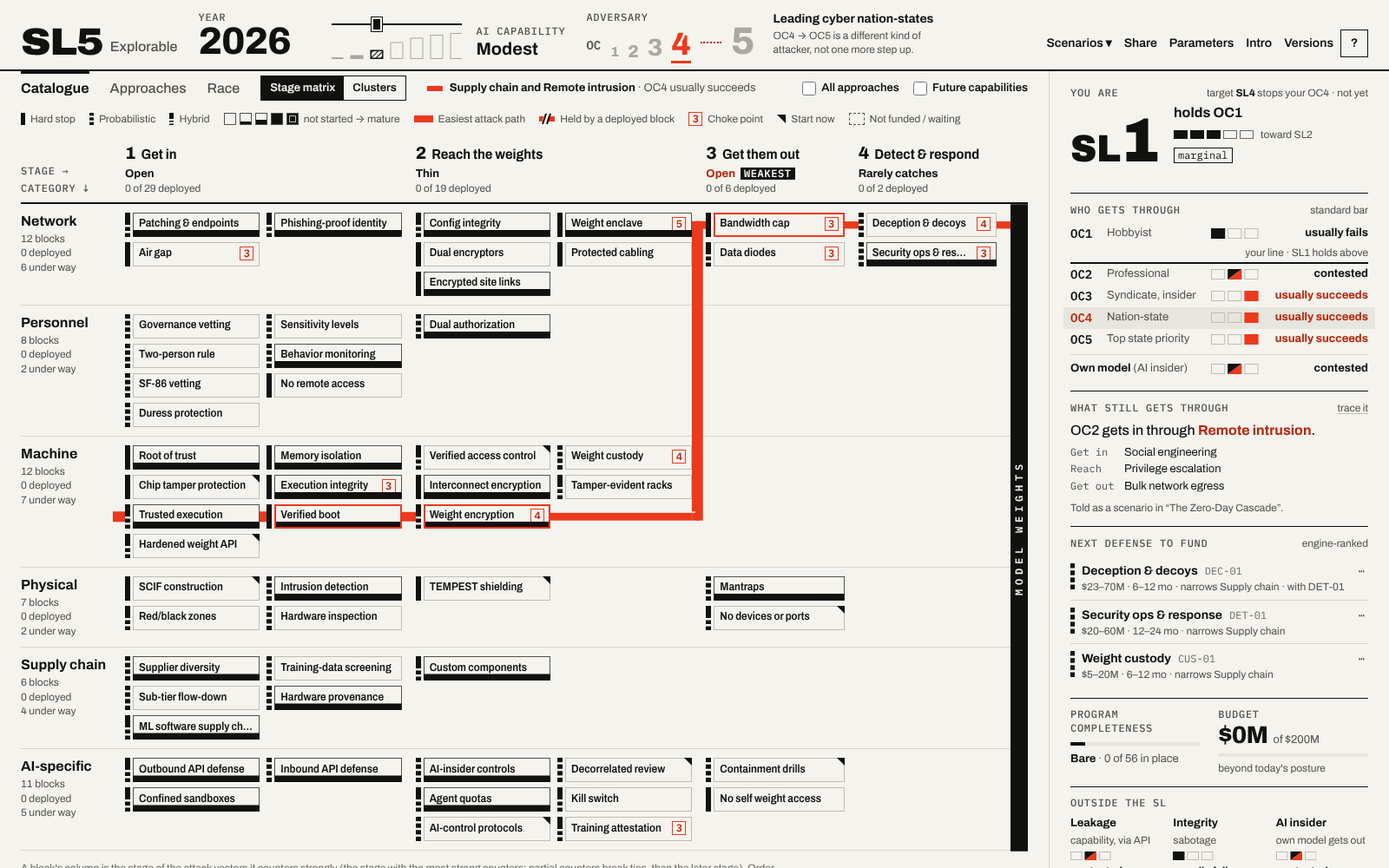
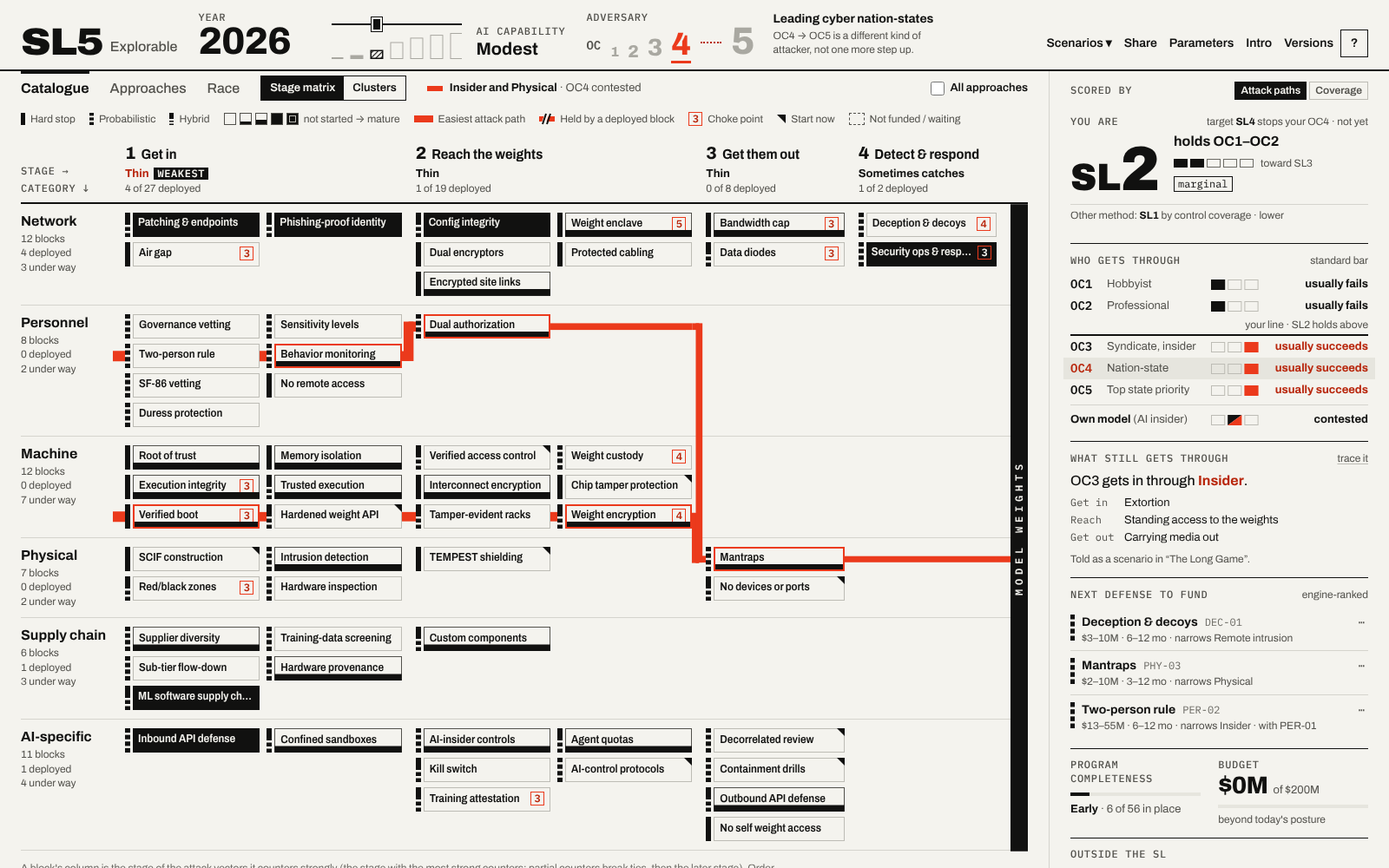
Refresh screenshots at the SL2 baseline; finalise decision log; fix driver for v2 settings
- README screenshot + landing v2 thumbnail re-captured (SL2, holds OC1–OC2); alt text updated
- research/v2/decisions.md: D23–D25 record what landed (22af6de, bbc2c18) with before→after table and open questions
- run skill: 31 files / 419 tests, 56 blocks, scoring-mode setting; driver checks the scoring switch instead of the retired future toggle and expects Proactive to reach SL5

Claude-Session: https://claude.ai/code/session_0122uNYq5RiiK2CqAfXCxa3h

diff --git a/site/index.html b/site/index.html
@@ -318,7 +318,7 @@
             <p class="mono path">/sl5/v2/</p>
           </div>
           <div class="shot">
-            <img src="thumbs/v2.webp" width="1200" height="750" alt="The v2 catalogue on paper-white: defenses laid out as a matrix of attack stage (get in, reach the weights, get them out, detect and respond) by category, with the easiest attack path drawn through them in red. On the right, the verdict rail reads SL1, holds OC1, and marks each attacker tier in words: usually fails, contested or usually succeeds.">
+            <img src="thumbs/v2.webp" width="1200" height="750" alt="The v2 catalogue on paper-white: defenses laid out as a matrix of attack stage (get in, reach the weights, get them out, detect and respond) by category, with the easiest attack path drawn through them in red. On the right, the verdict rail reads SL2, holds OC1–OC2, and marks each attacker tier in words: usually fails, contested or usually succeeds.">
           </div>
           <p class="what">Scored on RAND&rsquo;s attack vectors, with a threat-relative security level: SL&nbsp;n means an OC&nbsp;n attacker usually fails. A catalogue in stage-matrix and cluster views, a verdict in words instead of percentages, approach and race views, and a new introduction for defenders.</p>
           <div class="actions">

diff --git a/research/v2/decisions.md b/research/v2/decisions.md
@@ -4,7 +4,7 @@ A chronological record of the decisions behind SL5 Explorable v2, made between 2
 
 - **User** means the repository owner. **Agent** means the orchestrating Claude session or one of the subagents it ran (reviewers, designers, implementers).
 - Quotes are the user's own words, verbatim, typos included.
-- **Status:** *Active* (holds in the shipped code), *Superseded* (replaced by a later decision), *Reversed* (undone), or *In progress* (being implemented as this folder was written).
+- **Status:** *Active* (holds in the shipped code), *Superseded* (replaced by a later decision), *Reversed* (undone), or *Done* (a one-off that is finished).
 - Where this log and the code disagree, the code and [`../scoring-model.md`](../scoring-model.md) win.
 
 The review pages linked below are claude.ai artifacts. They are **private to the repository owner**; everyone else should read the copies in this folder.
@@ -35,9 +35,9 @@ The review pages linked below are claude.ai artifacts. They are **private to the
 | [D20](#d20-ship-v1-and-v2-side-by-side) | 28 Nov | v1 frozen, v2 beside it, version picker | User | Active |
 | [D21](#d21-prs-go-up-ready-for-review) | 28 Nov | PRs ready for review, not draft | User | Active |
 | [D22](#d22-implementation-phases-and-code-review) | 27–28 Nov | Phased build, then an independent code review | Agent | Done |
-| [D23](#d23-sl5-must-be-reachable-with-the-catalogue) | 28 Nov | SL5 reachable with the full catalogue; research-required flags | User | In progress |
-| [D24](#d24-recalibrate-the-sobering-numbers) | 28 Nov | Recalibrate against evidence about today's labs | User asked | In progress |
-| [D25](#d25-a-setting-for-the-scoring-method) | 28 Nov | Setting: attack-path analysis or control coverage | User | In progress |
+| [D23](#d23-sl5-must-be-reachable-with-the-catalogue) | 28 Nov | SL5 reachable with the full catalogue; research-required flags | User | Active (`bbc2c18`); open questions |
+| [D24](#d24-recalibrate-the-sobering-numbers) | 28 Nov | Recalibrate against evidence about today's labs | User asked | Active (`bbc2c18`); open questions |
+| [D25](#d25-a-setting-for-the-scoring-method) | 28 Nov | Setting: attack-path analysis or control coverage | User | Active (`22af6de`) |
 | [D26](#d26-document-the-research-in-the-repo) | 28 Nov | Put the research in the repo | User | This folder |
 
 ---
@@ -308,6 +308,9 @@ Full record with images: [`visual-directions.md`](visual-directions.md).
 | 3 | `8e0037f` | The v2 interface: Swiss catalogue, verdict in words, defender-side intro |
 | Docs | `9eba10c` | README versions, model doc, research banners |
 | Review fixes | `f68d5d8` | Fixes for the independent code review's two medium findings |
+| Scoring mode | `22af6de` | The scoring-method setting (D25) |
+| Research docs | `504535e` | This folder (D26) |
+| Recalibration | `bbc2c18` | SL5 reachable with the catalogue, research-required flags, evidence-based baseline, defender AI (D23, D24) |
 
 The independent code review of `ffde5b6..8e0037f` found two medium bugs, both fixed with tests:
 1. a story played over a shared link could overwrite the reader's saved posture;
@@ -328,31 +331,85 @@ It found nothing serious in the engine: about 10,800 random property trials with
   - Retire the invented FUT-01…05 blocks and the future-capabilities toggle. Flag the existing research-heavy controls with `research_required` instead.
 - **Reverses:** D15.4.
 - **Why D15.4 was wrong:** it treated RAND's 2024 "Achieving SL5 is currently not possible" as a property of the catalogue. The constraint is that some controls cannot yet be built.
-- **Status:** in progress in a parallel agent. Check `app/public/data/` and `scoring-model.md` for what landed.
+- **What was done** (commit `bbc2c18`, with D24; details in [`scoring-model.md`](../scoring-model.md) Parts 3, 7 and 12):
+  - **FUT blocks retired.** `blocks-future.json` and the toggle are gone from the data, engine, store, view bar, Parameters and Race view. Old saves and share links drop the FUT ids and the toggle. The catalogue is 56 blocks.
+  - **Seven controls flagged `research_required`**, each with a one-line `research_note`: HW-04 chip-level tamper protection, HW-06 execution integrity verification, SRV-01 the hardened weight-access and serving interface, ACA-01 access-control verification, AI-02 decorrelated multi-model review, AI-10 AI-control protocols and SC-03 adversarial content screening. Where the data called the work research-grade, lead times were lengthened (for example SRV-01 18–36 → 36–60 months, AI-10 12–24 → 36–60), so a programme that starts them in 2026 lands them in 2029–2032. The drawer and the tile's label show the flag. Otherwise they are ordinary blocks.
+  - **Erosion is read relative to what a control was built for.** `erosion tier = max(1, tier − DESIGN_TIER_RELIEF × (first_required − 1))`, with `DESIGN_TIER_RELIEF` = 0.75. Before, every SL5-grade probabilistic control kept 40% of its effect against OC5 at every stage, so even the mature catalogue could not hold OC5. Without the relief it is SL4.80 in 2026.
+  - **The served approach got an exit stage.** Model extraction (V-ML-4) used to skip *reach* and *get out*, which left a floor no counter could pass. It now exits through a new structural vector, V-X-5 (weight-scale volume out through the API), metered by AI-07 (strong) and SRV-01 (partial).
+  - **31 vector-map links changed**, mostly strong counters on the controls the SL5 benchmark relies on, the research-required ones above all. They are listed with reasons in `scoring-model.md` Part 12.
+- **Result** (default world, model served):
+  - The mature catalogue is **SL5 in 2026, 2028 and 2030, but marginal**: OC5 succeeds 0.17–0.19 of the time against a bar of 0.20. In a favourable world it is clear (0.07–0.08).
+  - **Without the research-required controls it is not SL5:** SL4.84 in 2026, SL3.94 in 2030. Without SRV-01 alone there is no SL5.
+  - The Proactive story reaches SL5 in 2030 only because it starts the research controls in 2024.
+  - So research and lead time keep SL5 out of reach today, not the arithmetic.
+- **Status:** active. The open questions it raised are listed [under D24](#open-questions-from-the-recalibration).
 
 ### D24. Recalibrate the "sobering" numbers
 
 - **User:** "The sobering numbers don't sound to good. Are you sure about them?"
-- **Evidence:** in the v2 calibration as shipped (default world, model served):
+- **Evidence:** in the v2 calibration as first shipped (default world, model served):
   - the 2026 baseline was SL1 and marginal, falling below SL1 by 2028;
   - the Proactive story reached only SL3 in 2030;
   - the full catalogue never passed SL3 with the model served;
   - even with the FUT blocks, in a favourable world, it touched SL5 only in 2026.
-- **Diagnosis (agent):** the numbers were too pessimistic, for three reasons:
-  1. the baseline undercounts what labs already run: no block starts as "deployed", and `partially_deployed` maps to *implementing*;
-  2. AI helps only the attacker; there is no defender-side AI;
-  3. the calibration was set up so SL5 could not be reached.
+- **Diagnosis (agent):** the numbers were too pessimistic. Three causes were suspected, and probes on the binding paths tested them:
+  1. **The baseline undercounted what labs already run. Confirmed.** No block started as `deployed`, and `partially_deployed` maps to *implementing*, so identity, patching and the SOC counted at 0.4.
+  2. **AI helped only the attacker. Confirmed, but a small effect.** The baseline's collapse came mostly from under-credit meeting AI-lifted feasibility.
+  3. **The calibration blocked SL5. Confirmed** (the single-stage served approach, partial-only counters on every binding stage, erosion read without regard to what a control was built for; see D23).
+
+  **Refuted:** the residual floor (0.03 at OC5, never binding) and the structural placeholders as such. They bound only because their counters were weak, so the fix went into the counters, not into p.
 - **Chosen:** recalibrate against evidence-based targets (where labs stand against RAND's levels today), add a modest, capped defender-AI term, and fix data and structure rather than global constants.
-- **Status:** in progress. The targets and evidence will be in `scoring-model.md`.
+- **Targets**, from public evidence: RAND's 2024 report and its Aug 2026 SL3 report, Anthropic's ASL-3, GovAI on RSP v3, Google DeepMind's Frontier Safety Framework, IFP, the SL5 Task Force and Ladish. The sources and confidence levels are in [`scoring-model.md`](../scoring-model.md#calibration-targets-and-evidence).
+  - A typical frontier lab in 2026 is **SL2, contesting SL3**, mostly through an insider (moderate confidence).
+  - Held fixed, it **declines by about a level by 2030, not below SL1** (low–moderate).
+  - The **full catalogue, matured, is SL5** in 2026 and 2030, marginal allowed, with no invented blocks (moderate on direction; the margin is authored).
+  - **Without the research-required controls, not SL5** (moderate).
+  - Stories: Do Nothing declines; Budget-Constrained between; Reactive ≈ SL3; Proactive SL4, and SL5 by 2030 only if its research started in 2024.
+- **What was done** (commit `bbc2c18`):
+  1. **Evidence-based baselines.** Six controls start `deployed`, each citing its evidence: IAM-01, END-01, CFG-01, DET-01, SW-01 and AI-08. NET-04 is partial from 2025 (ASL-3's software egress limits).
+  2. **Defender AI.** Eleven detection, monitoring, review and patching blocks carry `defender_ai`. On the vectors they counter they win back half of the attacker's AI uplift (`DEFENDER_AI_SHARE` 0.5, read at the erosion tier only), and half of AI's erosion of detection. It never exceeds the uplift it offsets, so a later year is never safer. The effect is modest: the baseline held to 2030 is SL1.55 without it and 1.61 with it.
+  3. **Design-tier relief, the served exit stage, the 31 map changes and the research-required flags** (D23).
+  4. **Stories rescheduled.** Proactive starts the research controls in 2024 ($4.0B). Reactive buys AI-07 and AI-08 after the Feb 2026 distillation disclosure ($1.95B). Captions, intro copy and the intro's budget game were updated (the game now starts in 2028).
+  5. **The targets are tests** (`tests/engine/calibration.test.ts`, `scripts.test.ts`), and `npm run calibrate` regenerates the tables in `scoring-model.md` Part 11.
+- **Before → after** (SL value, model served, default world; m = marginal; "before" for the full catalogue is with the future toggle off):
+
+  | Posture | 2026 | 2028 | 2030 |
+  |---|---|---|---|
+  | 2026 baseline | 1.51 m → **2.31 m** | 0.84 → **1.72** | 0.75 → **1.60** |
+  | Do Nothing | 1.51 m → **2.33 m** | 0.85 → **1.73** | 0.76 → **1.62** |
+  | Budget-Constrained | 1.71 → **2.41 m** | 1.65 → **1.90** | 1.56 → **1.83** |
+  | Reactive CISO | 1.60 → **2.32 m** | 1.50 → **1.81** | 1.92 → **2.97** |
+  | Proactive Program | 2.51 m → **2.83** | 2.86 → **4.73 m** | 3.60 m → **5.00 m** |
+  | Full catalogue | 3.77 m → **5.00 m** | 3.65 m → **5.00 m** | 2.96 → **5.00 m** |
+  | Full catalogue, research controls not built | — | — | **3.94** |
+
+- **Status:** active, with the open questions below.
+
+#### Open questions from the recalibration
+
+These came out of D23 and D24, and are waiting for the user:
+
+1. **SL5 is only marginal in the default world.** The mature catalogue holds OC5 at 0.17–0.19 against the 0.20 bar. A strict bar loses it, and a government partnership makes it clear. `DESIGN_TIER_RELIEF` = 0.75 is the reading that holds OC5 through 2030 (at 0.5 it is lost from 2028). At 1.0 an SL5-grade control would not erode against OC5 at all, and OC5 would be 0.15–0.16, which gives more margin. Keep 0.75, or move to 1.0?
+2. **The 31 vector-map changes are pending the user's review.** The original map went to the user before any engine code (D14, D15). These changes were made by the agent during the recalibration. Each carries a `why` and a `note` in the data, and they are listed in `scoring-model.md` Part 12.
+3. **The intro's budget game moved from 2026 to 2028.** Today's baseline is now SL2, and no $150M year buys SL3 from there. So the game starts in 2028, after the lab has slipped to SL1, and asks whether you can get back to SL2. The alternative is to keep 2026 with a different goal or budget.
+4. **Reactive ends at 2.97**, just short of the "≈ SL3" target: OC3 succeeds 0.21 of the time in 2030 against the 0.20 bar. The README calls it "about SL3". Accept that, or tune the story over the line?
+5. **With the model not served and full cooperation, SL5 holds even without the research controls** (OC5 0.11–0.12 in the favourable world). In the default world with the model not served, it holds in 2026 (OC5 0.19) and is lost from 2028. This is consistent with RAND: its call for R&D is about serving production models at SL5, and its other SL5 condition is help from the national security community. But it means "SL5 needs research" holds only for a served model, or without government help. Accept, or make the research controls load-bearing in every world?
 
 ### D25. A setting for the scoring method
 
 - **User:** "Can we add the setting to select the scoring logic between the old % of controls Vs the attack path analysis?"
 - **Chosen:**
-  - A `scoringMode` setting: *attack-path analysis* (default) or *control coverage*, the v1 formula.
+  - A `scoringMode` setting: *attack-path analysis* (`paths`, the default) or *control coverage* (`coverage`, the v1 formula).
   - It is persisted and travels in share links.
   - The rail shows a one-line "Other method: SLx" note, so users see where the two disagree. That disagreement is the teaching point.
-- **Status:** in progress.
+- **What was done** (commit `22af6de`):
+  - `scoringMode` is saved with the posture and carried in share links. Old links, which don't have it, load as `paths`.
+  - It is set in two places: "How to score your security level" at the top of Parameters, and a "Scored by: Attack paths | Coverage" switch at the head of the rail.
+  - **Coverage mode** reads the engine's own programme completeness (0.3 × the weakest category + 0.7 × the mean, v1's method) as a level plus a progress bar. Under it, each category shows its coverage share and "x of y in place", with the weakest flagged. The tier ladder is hidden, and the next defense is ranked by coverage gained per $M. The share is printed as "NN% coverage". This is the one percentage in the UI: it is a share of controls built, not a probability, so the no-percentages rule exempts it (`data-coverage-share`).
+  - **Both modes** show "Other method: SLx by … · higher / lower", and the hover explains why the two differ. At today's 2026 baseline, attack paths give SL2 (marginal) and control coverage gives SL1.
+  - **Stories pin `paths`.** Their captions state threat-relative outcomes, so the switch is locked while a story plays and the reader's choice comes back when it stops.
+  - Tests: `tests/store/scoring-mode.test.ts`, `tests/ui/scoring-mode.test.tsx`.
+- **Status:** active.
 
 ### D26. Document the research in the repo
 

diff --git a/app/.claude/skills/run-sl5-app/SKILL.md b/app/.claude/skills/run-sl5-app/SKILL.md
@@ -67,10 +67,10 @@ Flows — pass one, or `all`:
 
 | flow | what it asserts |
 |---|---|
-| `smoke` | app loads past the first-run modal; every block of today's catalogue renders once (counted from `public/data`: 56 today), no R&D block while the toggle is off; the rail states a level and band words; a path is drawn; **no `%` anywhere on screen** (text, titles, aria labels; quoted research prose excepted); **nothing under 12px**; no console errors |
+| `smoke` | app loads past the first-run modal; every block of the catalogue renders once (counted from `public/data`: 56 today); the rail states a level and band words; a path is drawn; **no `%` anywhere on screen** (text, titles, aria labels; quoted research prose excepted); **nothing under 12px**; no console errors |
 | `views` | Stage matrix, Clusters, Approaches and Race each mount and lay out (tile/hex/lane/bar counts); nothing under 12px on the race |
-| `interact` | click advances a block, right-click steps it back; Shift-click opens the block drawer, Escape closes it; the Parameters drawer has strictness, propensity, future toggle, serving, government; the future toggle shows the five R&D blocks (61 tiles) |
-| `story` | Scenarios ▾ → Proactive Program plays with the transport and a caption in the rail; the end shows a takeaway; Proactive reaches SL3 by 2030; stopping restores the reader's year |
+| `interact` | click advances a block, right-click steps it back; Shift-click opens the block drawer, Escape closes it; the Parameters drawer has the scoring method, strictness, propensity, serving, government; switching the scoring method to control coverage and back flips the rail |
+| `story` | Scenarios ▾ → Proactive Program plays with the transport and a caption in the rail; the end shows a takeaway; Proactive reaches SL5 by 2030; stopping restores the reader's year |
 | `dark` | `prefers-color-scheme: dark` paints the dark paper |
 | `gate` | below 768px the gate replaces the app (no catalogue mounts), and tracks a live resize both ways |
 | `intro` | `/sl5/intro/` renders, `#the-oc-ladder` deep-links to its slide (title and position read from `src/intro/slides/index.ts`), readable at 390px |
@@ -121,7 +121,7 @@ const sliders = { ai_timeline: 0.5, gov_cooperation: 0.2, vendor_cooperation: 0.
   org_transformation: 0.3, risk_tolerance: 0.5, sl_bar: 0.2, ai_propensity: 0.5 };
 const s = scorePosture({ blocks, model, blockStates: baselineStates(blocks), year: 2026, sliders,
   adversaryOc: 4, modelServedExternally: true });
-console.log("SL", s.sl.level, s.tiers.map((t) => t.band)); // SL 1, [usually fails, contested, ...]
+console.log("SL", s.sl.level, s.tiers.map((t) => t.band)); // SL 2, [usually fails, usually fails, usually succeeds, ...]
 EOF
 node scripts/run-ts.mjs probe.ts && rm probe.ts
 ```
@@ -141,11 +141,16 @@ Desktop-only by design; the app gates below 768px. Ctrl-C to stop. The first-run
 remembers itself under `sl5v2_intro_seen`; saved state lives under `sl5v2-state` and
 `sl5v2-scenarios` (v1, frozen at `/sl5/v1/`, keeps the unprefixed keys).
 
+The headline level has a **scoring-mode** setting (`scoringMode`: `paths`, the default
+attack-path analysis, or `coverage`, v1's control coverage), set at the top of Parameters
+or with the rail's "Scored by" switch; it is saved, travels in share links, and stories
+pin `paths` while they play.
+
 ## Checks
 
 ```bash
 npm run lint      # eslint — clean
-npm test          # vitest — 29 files, 384 tests
+npm test          # vitest — 31 files, 419 tests
 npm run build     # tsc -b && vite build → dist/ (two pages)
 ```
 

diff --git a/README.md b/README.md
@@ -4,7 +4,7 @@
 
 **[Live →](https://nitzpo.github.io/sl5/)** (choose a version) · **[v2, current →](https://nitzpo.github.io/sl5/v2/)** · **[v1, original →](https://nitzpo.github.io/sl5/v1/)** · **[Start with the v2 introduction →](https://nitzpo.github.io/sl5/v2/intro/)**
 
-![SL5 Explorable v2: the catalogue of defenses as a stage-by-category matrix with the easiest attack path drawn through it in red, and the verdict rail on the right reading SL1, holds OC1](assets/screenshot.png)
+![SL5 Explorable v2: the catalogue of defenses as a stage-by-category matrix with the easiest attack path drawn through it in red, and the verdict rail on the right reading SL2, holds OC1–OC2](assets/screenshot.png)
 
 > ⚠ **Disclaimer.** This is an educational, illustrative model — not authoritative security guidance. The blocks, attack-vector mappings, scenarios, costs, and probabilities are a *modeling interpretation* synthesized from public sources (see [Data & sources](#data--sources)), not official figures. Use it to build intuition, not to make procurement or accreditation decisions.
 
@@ -36,7 +36,8 @@ The tool is built around **two simultaneous races**:
 - **The catalogue** is the main screen, in two views. The **stage matrix** lays the blocks out by attack stage (get in, reach the weights, get them out, detect and respond) and category; **clusters** groups them by category around the model weights. The easiest attack path is drawn through both, with break marks where a deployed block holds and badges on choke points. Click a block to advance it (not started → investing → implementing → deployed → mature), right-click to step it back, Shift-click for its detail drawer.
 - **The verdict rail** gives the security level as a level plus a progress bar toward the next, flagged *marginal* when it only just holds; a ladder of attacker tiers OC1–OC5 and the lab's own model, each in words (*usually fails*, *contested*, *usually succeeds*); what still gets through; the engine-ranked next defense to fund; programme completeness; the budget; and meters outside the SL. There are no percentages in the UI; the exact estimative word is on hover.
 - **Approaches** shows one lane per broad way in (remote intrusion, insider, physical, supply chain, the served model, the lab's own model) along the attacker's easiest path, with your defenses at each stage. **Race** sets long-lead defenses against the moment AI lifts the attacker to the next tier, and plots your SL over the years beside the four scripted stories.
-- **Parameters** holds the advanced settings: how strict "stops" is (strict, standard, lenient), the adversary, model serving, AI propensity, and the world sliders.
+- **Scoring mode**: the rail's *Scored by* switch (also at the top of Parameters) chooses how the headline level is scored, by attack-path analysis (the default) or by v1's control coverage, and the rail always notes what the other method gives.
+- **Parameters** holds the advanced settings: the scoring mode, how strict "stops" is (strict, standard, lenient), the adversary, model serving, AI propensity, and the world sliders.
 - **Scenarios** plays one-minute stories (Proactive Program, Reactive CISO, Budget-Constrained, Do Nothing, or your own posture run forward in time) with captions in the rail, and saves and reloads postures you name. **Share** copies a link to your posture.
 
 ### The introduction

diff --git a/research/v2/README.md b/research/v2/README.md
@@ -16,7 +16,7 @@ v1, frozen at commit `ec5d9bd` and live at `/sl5/v1/`, scored seven hand-written
 
 > **For anything the app computes, the code wins:** [`app/src/engine/`](../../app/src/engine/), the data in [`app/public/data/`](../../app/public/data/), and the model reference [`research/scoring-model.md`](../scoring-model.md).
 
-This folder explains *why*. It is a historical record: numbers in it come from probes and drafts at the time, and several were later changed. In particular the recalibration of 28 Nov, which made SL5 reachable with the full catalogue and retired the "future capabilities" blocks, was still in progress when this folder was written. If a number here disagrees with `scoring-model.md`, trust `scoring-model.md`.
+This folder explains *why*. It is a historical record: numbers in it come from probes and drafts at the time, and several were later changed. In particular, the recalibration of 28 Nov (commit `bbc2c18`) landed after most of this folder was written. It made SL5 reachable with the full catalogue, retired the invented "future capabilities" (FUT) blocks in favour of `research_required` flags on seven existing controls, and moved today's baseline from SL1 to SL2. [`decisions.md`](decisions.md) D23–D25 record what was done and the questions it left open. Mentions of the FUT blocks elsewhere in this folder are history. If a number here disagrees with `scoring-model.md`, trust `scoring-model.md`.
 
 ## Reading order
 

diff --git a/research/v2/process-and-lessons.md b/research/v2/process-and-lessons.md
@@ -16,7 +16,7 @@ v2 was built in about a day and a half (26 Nov evening to 28 Nov morning, 2026) 
 | Vector backbone | A mapping agent, then an **independent reviewer** who checked the transcription against the RAND PDF and audited 80 links, then a revision | [`vector-model/`](vector-model/) |
 | Build | Phase 1 correctness → Pages v1/v2 deploy and landing page → Phase 2A data and engine → Phase 3A UI and 3B intro (parallel, with split file ownership) → docs refresh | Commits `35540c0` … `9eba10c` |
 | Check | **Independent code review** of `ffde5b6..8e0037f` from a clean `git archive` (two medium and five lower-severity findings), then a fix agent that fixed all of them | `f68d5d8`, [`probes/codereview/`](probes/codereview/) |
-| After user feedback | Recalibration (engine and data), scoring-mode toggle (UI and store), and this documentation, in parallel with split file ownership | In progress at the time of writing |
+| After user feedback | Recalibration (engine and data), scoring-mode toggle (UI and store), and this documentation, in parallel with split file ownership | Landed: `22af6de` (scoring mode), `504535e` (this folder), `bbc2c18` (recalibration) |
 
 ### Patterns that worked
 

diff --git a/research/v2/2026-11-review.md b/research/v2/2026-11-review.md
@@ -407,7 +407,7 @@ Added for this repository copy. "Phase 1" is commit `35540c0`, "2A" is `e2e3fe6`
 | CISO ranking is a heuristic | Phase 1: engine-ranked. v2: "Next defense to fund" from `scorePosture`. |
 | Budget doesn't bind | Phase 1: unfunded blocks fall back to baseline. **Not done:** running costs. |
 | Defense is static in time | Not done: no exfiltration time vs detection model. |
-| AI only helps the attacker | Per-vector attacker AI shift in 2A. A defender-side AI term is part of the recalibration (D24, in progress). |
+| AI only helps the attacker | Per-vector attacker AI shift in 2A. A capped defender-side AI term came with the recalibration (D24, `bbc2c18`). |
 | Views disagree | Phase 1: one `scorePosture` pipeline. |
 | False precision, drifted docs | Numbers became words (D5). Calibration tables are generated by `npm run calibrate`. **Not done:** P10–P90 bands. |
 | Visuals | Phase 3: the Swiss catalogue (stage matrix and clusters) with the easiest path drawn on it, an approaches view, a race view, and a defender-side intro. See [`visual-directions.md`](visual-directions.md). |

diff --git a/research/v2/threat-relative-sl.md b/research/v2/threat-relative-sl.md
@@ -248,6 +248,6 @@ The authoritative statement is [`../scoring-model.md`](../scoring-model.md), Par
 
 ### Known weak points carried forward
 
-- **The SL4/SL5 gap and the reachability of SL5 depend on data:** which controls counter which vectors, and how strongly. In the first v2 calibration the full catalogue could not reach SL5, which the user rejected (D23). The recalibration was in progress when this folder was written.
+- **The SL4/SL5 gap and the reachability of SL5 depend on data:** which controls counter which vectors, and how strongly. In the first v2 calibration the full catalogue could not reach SL5, which the user rejected (D23). The recalibration (D23, D24, commit `bbc2c18`) made the mature catalogue SL5, marginal in the default world.
 - **The bar is a modelling choice**, not a RAND number.
 - **Knife-edge verdicts are possible.** The progress bar and the `marginal` flag exist to show them.

diff --git a/site/README.md b/site/README.md
@@ -72,7 +72,7 @@ node site/capture-thumbnails.mjs --only v2 --image v2=path/to/mockup.jpg
 ```
 
 Both thumbnails are captures of the real apps: v2's is its default main screen
-(the stage matrix with the verdict rail, SL1 in 2026). After a visible change to
+(the stage matrix with the verdict rail, SL2 in 2026). After a visible change to
 v2's main screen, run `node site/capture-thumbnails.mjs --only v2`, open
 `site/thumbs/v2.webp` to check it shows the catalogue with no modal over it, and
 commit it. If the screen no longer matches the description, update the v2 `alt`
